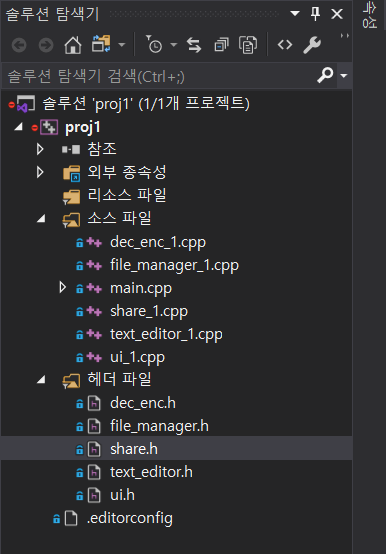
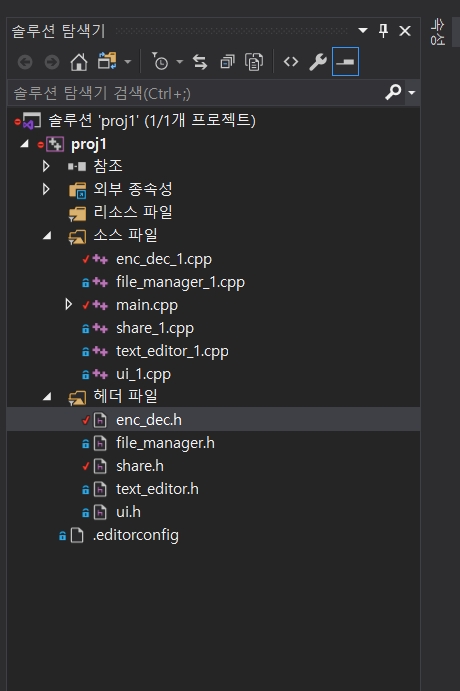
dec_enc ==> enc_dec 변경

diff --git a/proj1/main.cpp b/proj1/main.cpp
@@ -5,7 +5,7 @@
 #include "text_editor.h"
 #include "ui.h"
 #include "file_manager.h"
-#include "dec_enc.h"
+#include "enc_dec.h"
 
 using namespace std;
 

diff --git a/proj1/enc_dec_1.cpp b/proj1/enc_dec_1.cpp
@@ -4,4 +4,4 @@
 * dec_enc.h 에서 선언된 함수를
 * 이곳에서 구현해 주세요
 */
-#include "dec_enc.h"
+#include "enc_dec.h"

diff --git a/proj1/enc_dec.h b/proj1/enc_dec.h
@@ -6,7 +6,7 @@
 */
 
 /*
-* dec_enc 요구사항 :
+* enc_dec 요구사항 :
 *
 *
 */
